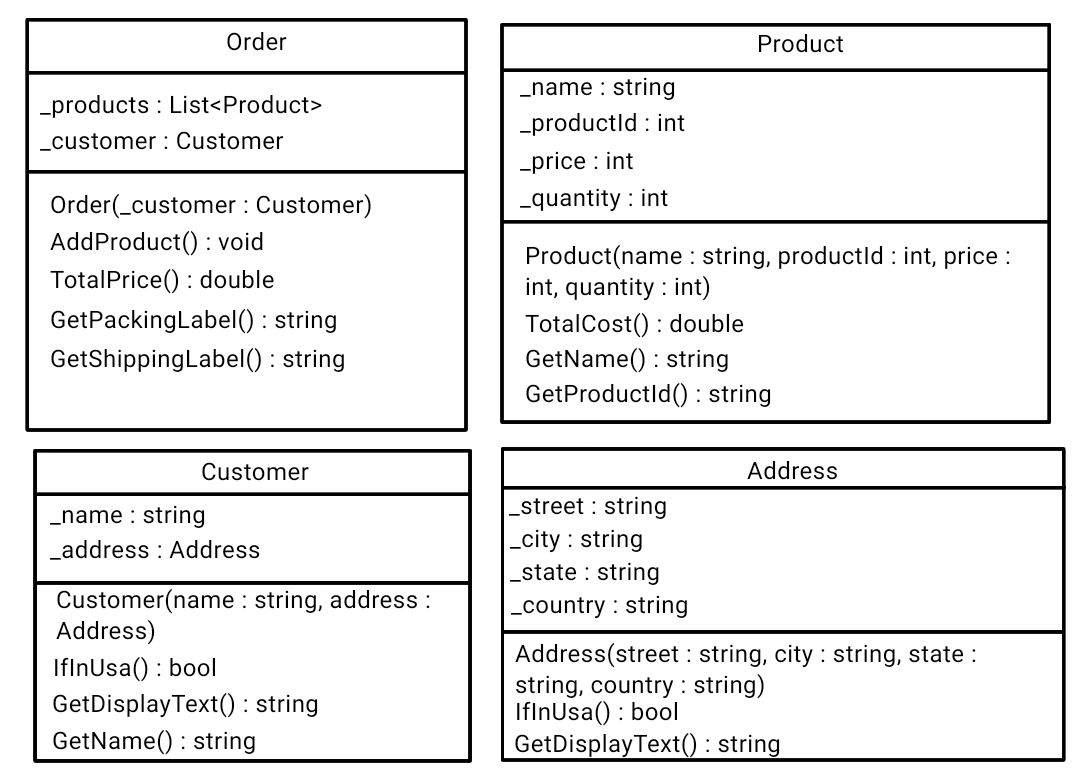
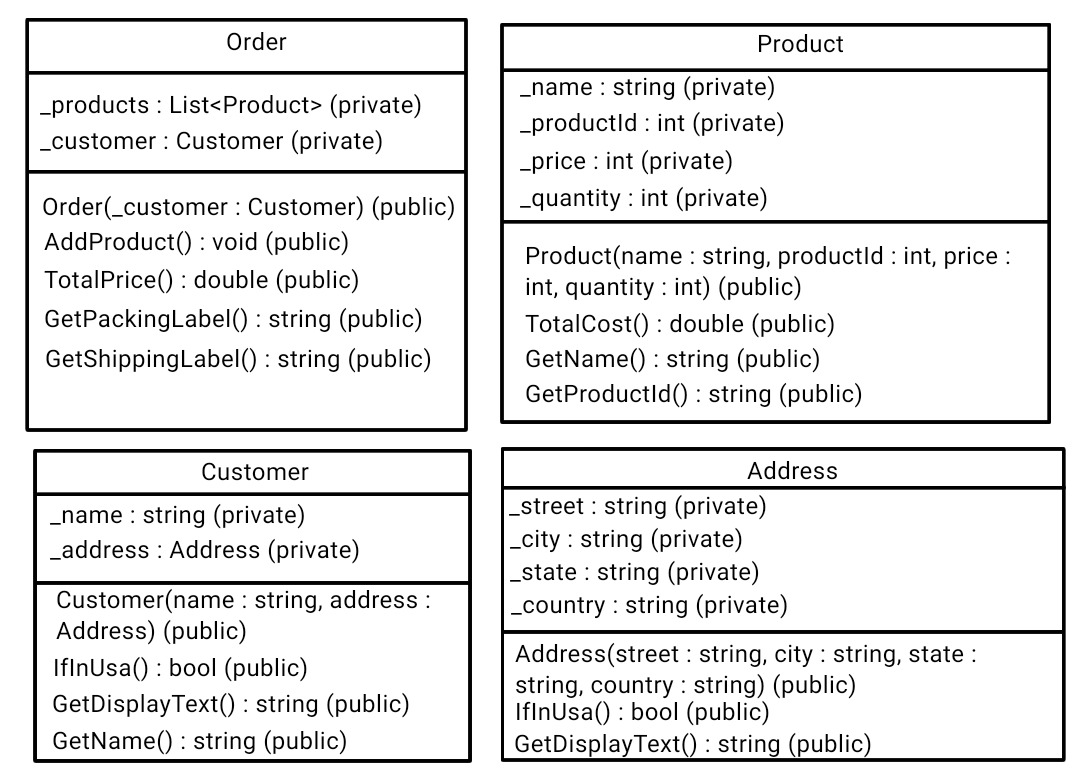
EncapsulationAndAbstractionActivity1

diff --git a/foundation/Foundation2/Program.cs b/foundation/Foundation2/Program.cs
@@ -4,6 +4,61 @@ class Program
 {
     static void Main(string[] args)
     {
-        Console.WriteLine("Hello Foundation2 World!");
+        Address usaAddress = new Address("CherryRoad", "Detroit", "Michigan", "USA");
+        Address notUsaAddress = new Address("PeachRoad", "Calgary", "Alberta", "Canada");
+        Address usaAddress2 = new Address("PearRoad", "New York City", "New York", "USA");
+        Address notUsaAddress2 = new Address("AppleRoad", "Florence", "Italy", "Europe");
+        
+        Customer customerInUsa = new Customer("William Afton", usaAddress);
+        Customer customerNotInUsa = new Customer("John Wick", notUsaAddress);
+        Customer customerinUsa2 = new Customer("Caesar Salad", usaAddress2);
+        Customer customerNotInUsa2 = new Customer("Bean-E-boo", notUsaAddress2);
+
+        Product chair = new Product("Chair", 18437849, 100, 1);
+        Product table = new Product("Table", 79494905, 200, 2);
+        Product veggieBurger = new Product("Veggie Burger", 63810436, 5, 1);
+
+        Order order1 = new Order(customerInUsa);
+        order1.AddProduct(chair);
+
+        Order order2 = new Order(customerNotInUsa);
+        order2.AddProduct(table);
+        
+        Order order3 = new Order(customerinUsa2);
+        order3.AddProduct(veggieBurger);
+        order3.AddProduct(chair);
+
+        Order order4 = new Order(customerNotInUsa2);
+        order4.AddProduct(chair);
+        order4.AddProduct(table);
+        order4.AddProduct(veggieBurger);
+        
+        Console.Clear();
+        Console.WriteLine();
+        Console.WriteLine("Order 1:");
+        Console.WriteLine($"Packing Label:{order1.GetPackingLabel()}");
+        Console.WriteLine($"Shipping Label:{order1.GetShippingLabel()}");
+        Console.WriteLine($"Total Price: ${order1.TotalPrice():F2}");
+
+        Console.WriteLine();
+        Console.WriteLine("Order 2:");
+        Console.WriteLine($"Packing Label:{order2.GetPackingLabel()}");
+        Console.WriteLine($"Shipping Label:{order2.GetShippingLabel()}");
+        Console.WriteLine($"Total Price: ${order2.TotalPrice():F2}");
+
+        Console.WriteLine();
+        Console.WriteLine("Order 3:");
+        Console.WriteLine($"Packing Label:{order3.GetPackingLabel()}");
+        Console.WriteLine($"Shipping Label:{order3.GetShippingLabel()}");
+        Console.WriteLine($"Total Price: ${order3.TotalPrice():F2}");
+
+        Console.WriteLine();
+        Console.WriteLine("Order 4:");
+        Console.WriteLine($"Packing Label:{order4.GetPackingLabel()}");
+        Console.WriteLine($"Shipping Label:{order4.GetShippingLabel()}");
+        Console.WriteLine($"Total Price: ${order4.TotalPrice():F2}");
+
+        Console.WriteLine("\nThank you for your order!\n");
+
     }
 }

diff --git a/foundation/Foundation1/Program.cs b/foundation/Foundation1/Program.cs
@@ -4,6 +4,39 @@ class Program
 {
     static void Main(string[] args)
     {
-        Console.WriteLine("Hello Foundation1 World!");
+        List<Video> _videos = new List<Video>();
+
+        Video video1 = new Video("Draw My Life", "DenisDaily", 500);
+        Video video2 = new Video("How to cook shrimp", "CoolCat", 1020);
+        Video video3 = new Video("Explosion Sound affect (5 seconds)", "NoCopyrightSounds", 5);
+        Video video4 = new Video("Top 10 Scary Stories", "Shiver_Your_Timbers", 3600);
+
+        video1.AddComment("SirMeowsALot", "This video is great <3");
+        video1.AddComment("MrFlimFlam", "Amazing video as always!");
+        video2.AddComment("MarioLover101", "YUMMYYYY");
+        video2.AddComment("ExplosionGang1247", "Thank you for this great video");
+        video3.AddComment("LordHater06", "Lol");
+        video3.AddComment("Destroyerman_", "WE LOVE EXPLOSIONS1!!!11");
+        video3.AddComment("NirvanaFan", "Best video on youtube");
+        video3.AddComment("XxThePresidentxX", "I vote this video 1000/10");
+        video3.AddComment("tigerlillywee", "BOOM");
+        video4.AddComment("gFwfifiwfiwfwh", "this is to scaryy, Im onley 9");
+        video4.AddComment("ParanormalBeliever5000000", "I swear I saw a ghost this mornin");
+        video4.AddComment("ILikeSoup", "NEED MORE TOP 10 SCARY VIDEOS, NOW!!!");
+
+        _videos.Add(video1);
+        _videos.Add(video2);
+        _videos.Add(video3);
+        _videos.Add(video4);
+
+        foreach (var video in _videos)
+        {
+            DisplayInformation(video);
+        }
+    }
+
+    static void DisplayInformation(Video video)
+    {
+        Console.WriteLine(video);
     }
 }

diff --git a/foundation/Foundation2/Order.cs b/foundation/Foundation2/Order.cs
@@ -1,4 +1,5 @@
 using System;
+using System.Collections.Generic;
 
 class Order {
 
@@ -7,7 +8,7 @@ class Order {
 
     public Order(Customer customer)
     {
-        _customer = customer;
+        this._customer = customer;
     }
 
     public double TotalPrice()
@@ -18,21 +19,43 @@ class Order {
         shipping cost.
         */
 
-        Console.WriteLine();
+        double totalPrice = 0;
+
+        foreach (var product in _products)
+        {
+            totalPrice += product.TotalCost();
+        }
+
+        if (_customer.IsInUsa())
+        {
+            totalPrice += 5;
+        }
+        else
+        {
+            totalPrice += 35;
+        }
+        return totalPrice;
     }
 
-    public void AddProduct()
+    public void AddProduct(Product product)
     {
-        Console.WriteLine();
+        _products.Add(product);
     }
 
     public string GetPackingLabel()
     {
-        Console.WriteLine();
+        string label ="";
+
+        foreach (var product in _products)
+        {
+            label += $" || Product: {product.GetName()}, ID: {product.GetProductId()}";
+        }
+
+        return label;
     }
 
     public string GetShippingLabel()
     {
-        Console.WriteLine();
+        return $" || Customer: {_customer.GetName()} || {_customer}";
     }
 }

diff --git a/foundation/Foundation2/Address.cs b/foundation/Foundation2/Address.cs
@@ -2,30 +2,30 @@ using System;
 
 class Address {
 
-    private string _Address;
+    private string _address;
     private string _city;
     private string _state;
     private string _country;
 
-    public Address(string Address, string city, string state, string country)
+    public Address(string address, string city, string state, string country)
     {
-        _Address = Address;
+        _address = address;
         _city = city;
         _state = state;
         _country = country;
     }
 
-    public bool IfInUsa()
+    public bool IsInUsa()
     {
         /*
         The address should have a method that can return
         whether it is in the USA or not.
         */
 
-        Console.WriteLine();
+        return _country.ToUpper() == "USA";
     }
 
-    public string GetDisplayText()
+    public override string ToString()
     {
         /*
         The address should have a method to return a string
@@ -33,7 +33,7 @@ class Address {
         (with newline characters where appropriate)
         */
 
-        Console.WriteLine();
+        return $"{_address}, {_city}, {_state} {_country}";
     }
 
 }

diff --git a/foundation/Foundation1/Video.cs b/foundation/Foundation1/Video.cs
@@ -16,16 +16,32 @@ class Video {
 
     public void AddComment(string _name, string _text)
     {
-        Console.WriteLine();
+        Comment comment = new Comment(_name, _text);
+        _comments.Add(comment);
     }
 
-    public void NumberOfComments()
+    public int NumberOfComments()
     {
-        Console.WriteLine("W.I.P")
+        return _comments.Count;
     }
 
     public string GetDisplayText()
     {
-        Console.WriteLine("WOOOOOO");
+        string result = $"\n------------------\n\nTitle: {_title}\nAuthor: {_author}\nLength: {_length} seconds\nNumber of Comments: {NumberOfComments()}";
+
+        if (NumberOfComments() > 0)
+        {
+            result += "\n\nComments:\n";
+            foreach (var comment in _comments)
+            {
+                result += $"\n{comment.GetName()}: {comment.GetComment()}";
+            }
+        }
+        return result;
+    }
+
+    public override string ToString()
+    {
+        return GetDisplayText();
     }
 }

diff --git a/foundation/Foundation2/Customer.cs b/foundation/Foundation2/Customer.cs
@@ -11,18 +11,18 @@ class Customer {
         _address = address;
     }
 
-    public string Address()
+    public bool IsInUsa()
     {
-        //Call to address
+        return _address.IsInUsa();
     }
 
-    public string GetDisplayText()
+    public override string ToString()
     {
-        Console.WriteLine();
+        return $"Address: {_address}";
     }
 
     public string GetName()
     {
-        Console.WriteLine();
+        return _name;
     }
 }

diff --git a/foundation/Foundation2/Product.cs b/foundation/Foundation2/Product.cs
@@ -24,16 +24,16 @@ class Product {
         the product total cost would be $15.)
         */
 
-        Console.WriteLine();
+        return _price * _quantity;
     }
 
     public string GetName()
     {
-        Console.WriteLine();
+        return _name;
     }
 
-    public string GetProductId()
+    public int GetProductId()
     {
-        Console.WriteLine();
+        return _productId;
     }
 }

diff --git a/foundation/Foundation1/Comment.cs b/foundation/Foundation1/Comment.cs
@@ -13,11 +13,11 @@ class Comment {
 
     public string GetComment()
     {
-        Console.WriteLine("AHHHH");
+        return _text;
     }
 
     public string GetName()
     {
-        Console.WriteLine();
+        return _name;
     }
 }
